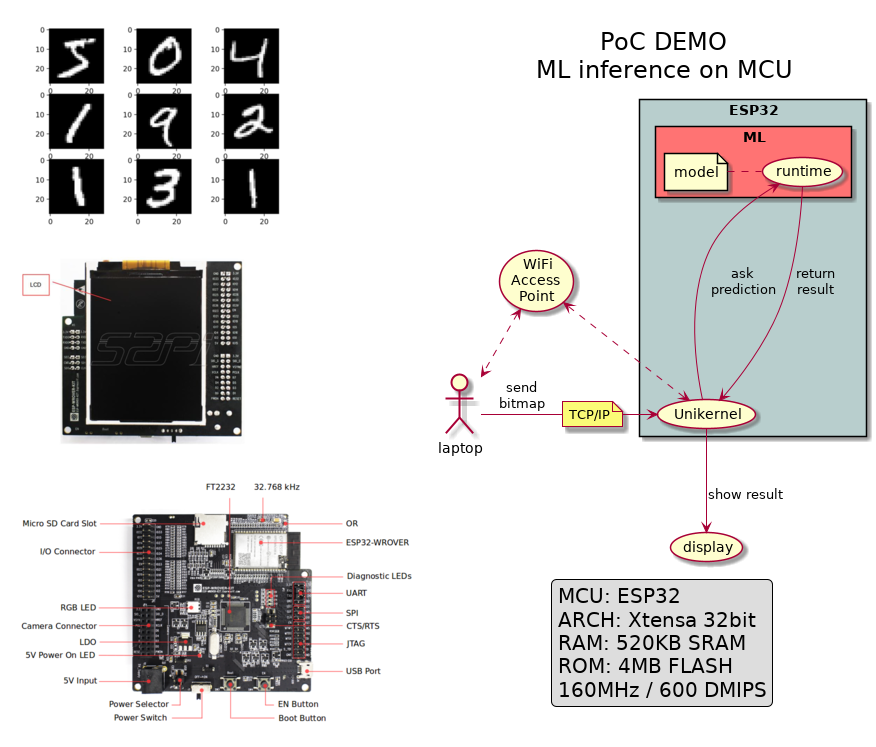
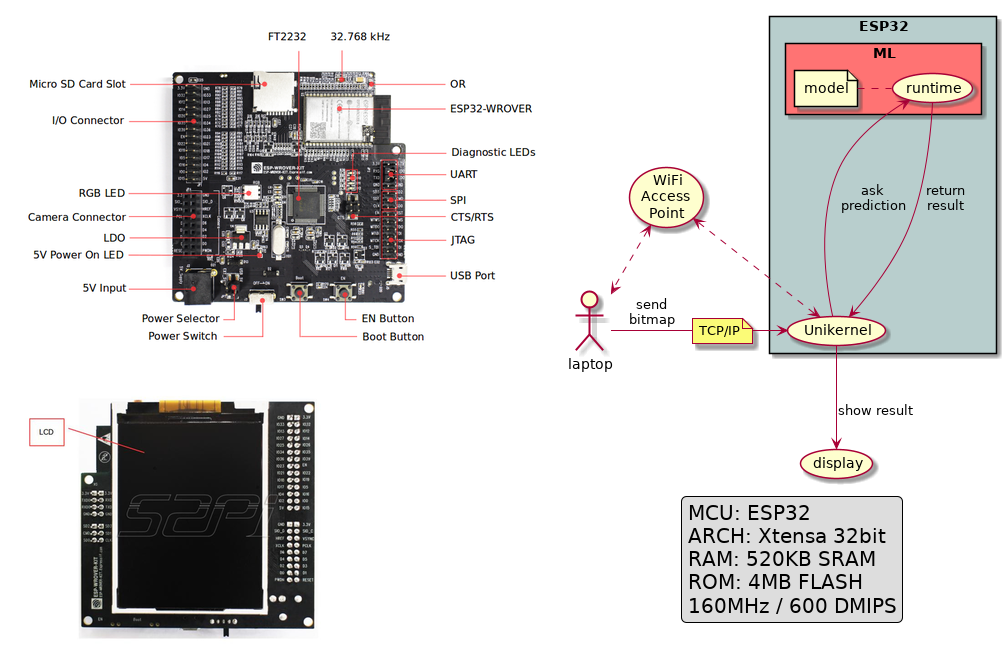
update demo slide

diff --git a/index.md b/index.md
@@ -17,14 +17,15 @@ Hiroshi Doyu
 background-image: url(images/venn1.png)
 # TinyML?
 ---
+exclude: true
 background-image: url(images/venn2.png)
 # Our focus
 ???
 TinyML == ML inference on constrint IoT device
 ---
-class: center, middle
+background-image: url(images/screenshot.png)
 # Demo
-![](images/screenshot.png)
+.footnote[[MNIST](#mnist)]
 ???
 - RPI != IoT
 - IoT device just sends raw sensor data to Edge.
@@ -33,6 +34,7 @@ class: center, middle
 - You'll get some feeling of what it's about.
 ---
 background-image: url(images/demo.png)
+## **ML on MCU**
 ???
 This is my setup.
 
@@ -60,7 +62,7 @@ class: center, middle
 <video width="560" height="420" controls>
     <source src="mnist.mp4" type="video/mp4">
 </video>
-# [MNIST inference on ESP32](https://youtu.be/6tJVtMrYGzA)
+# [MNIST on ESP32](https://youtu.be/6tJVtMrYGzA)
 ???
 - Left upper
  - device console
@@ -122,7 +124,7 @@ Let's introduce Edge computing:
 background-image: url(images/ecosystem_006.png)
 
 
-.footnote[[energy costly transmission](#costlytx)]
+.footnote[[expensive transmission](#costlytx)]
 ???
 There's some boudary, "On-premises"
 - where devices reside,
@@ -411,6 +413,7 @@ class: middle
 4. **PoC**
 5. Conclusion
 ---
+name: mnist
 background-image: url(images/mnist.png)
 ## **MNIST**: Handwriting digits recognition
 ### 60K images for training, 10K for testing
